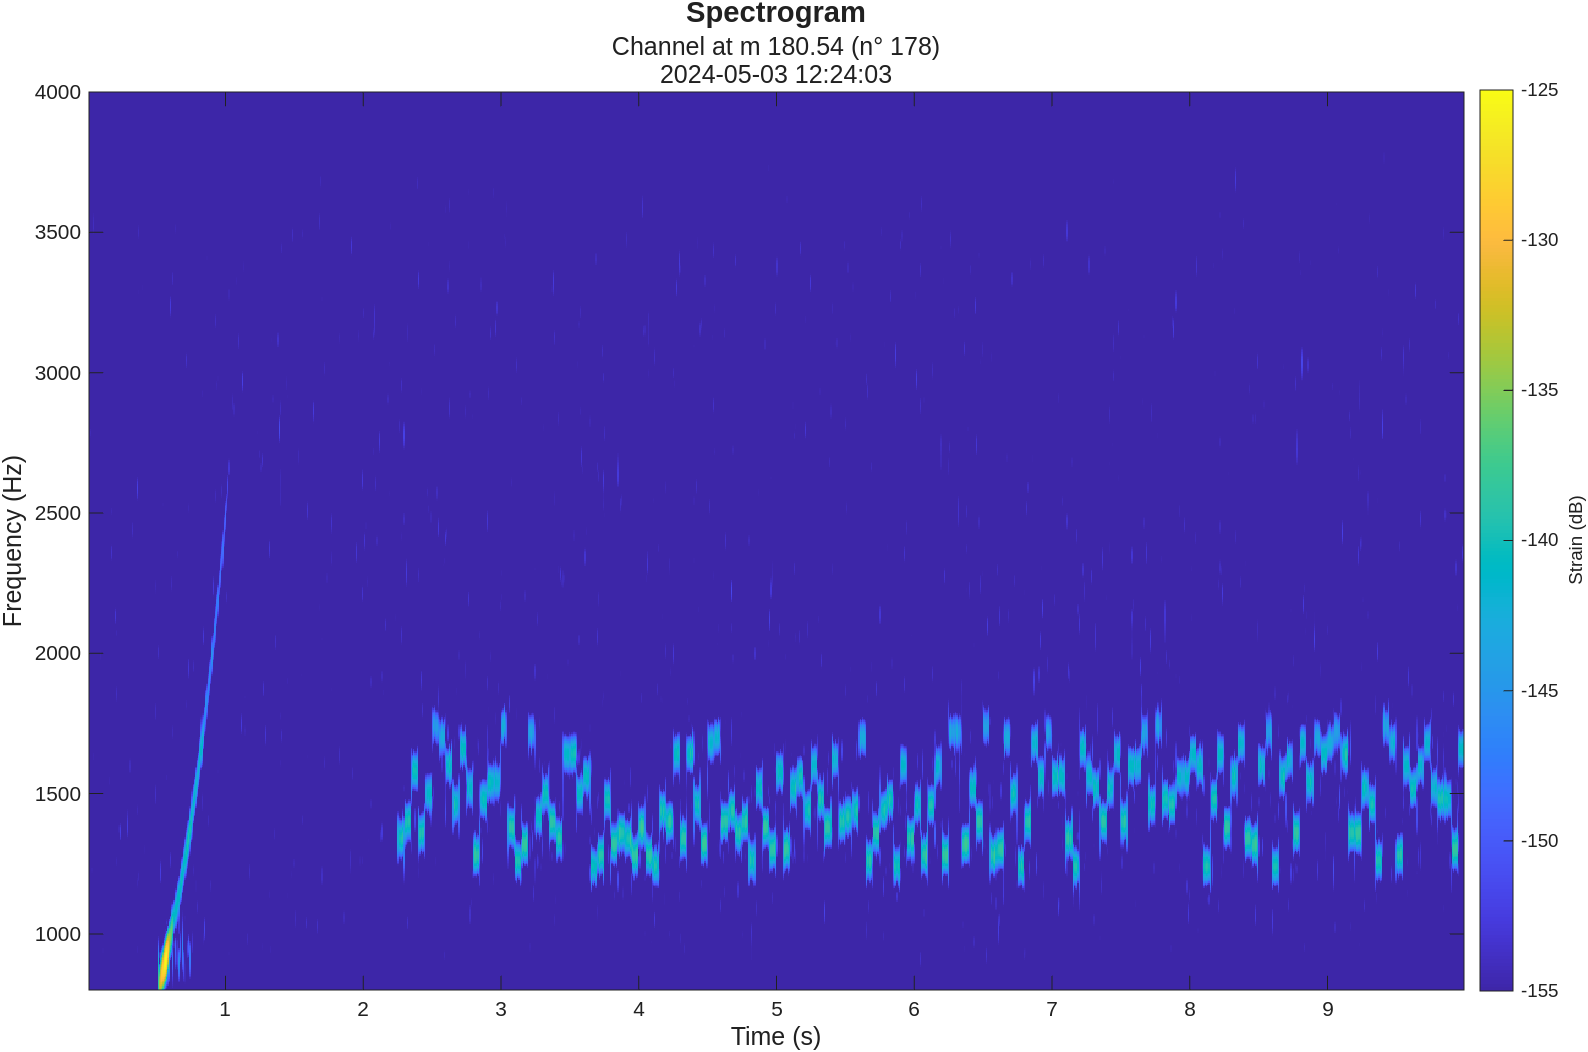
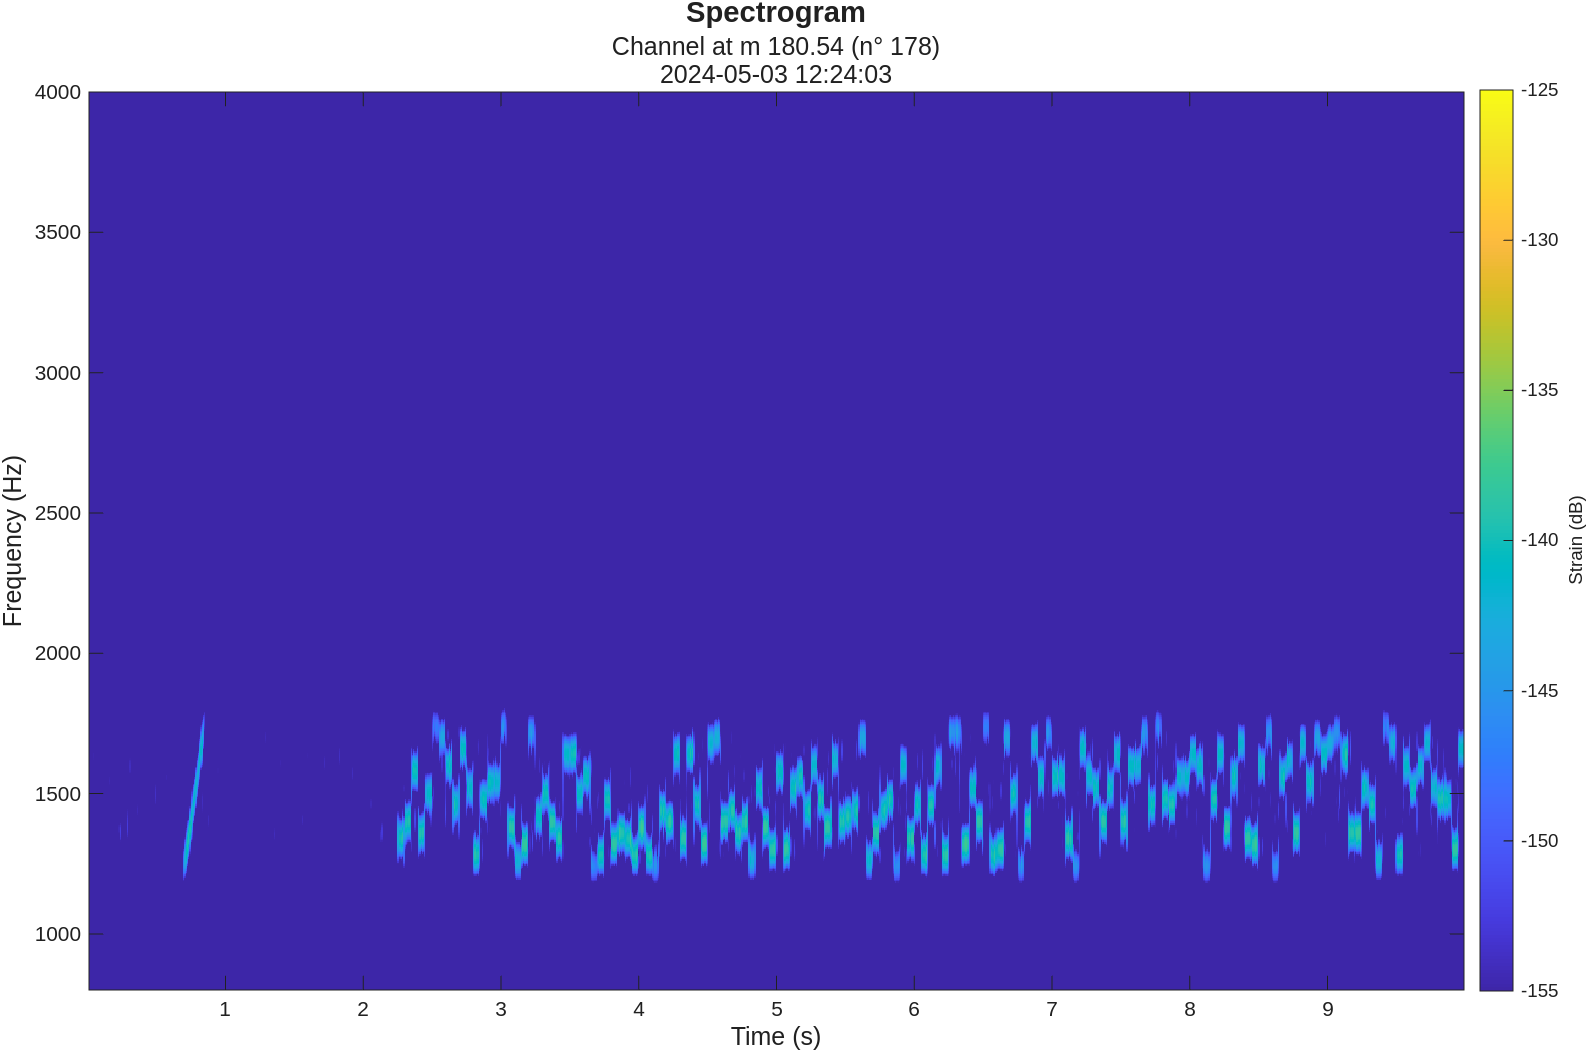
new work on localization for Tronheim experiments

diff --git a/Plots/ellyandcable.m b/Plots/ellyandcable.m
@@ -22,6 +22,7 @@ function EllyCable = ellyandcable()
 	EllyCable.get_channel_pos		= @get_channel_pos;
 	EllyCable.plot_channel_pos		= @plot_channel_pos;
 	EllyCable.plot_source_channel	= @plot_source_channel;
+    EllyCable.plot_source_2channels = @plot_source_2channels;
 end
 
 %% CABLE GEOMETRY
@@ -475,7 +476,7 @@ function plot_source_channel(time_and_date, channel_idx)
 	title('Cable geometry with Source and Channel position', 'FontSize', 12);
 	hold on;
 	
-	% plot source position
+	% plot source and channel position
 	plot3(source.xE, source.yN, source.zU, 'go', 'MarkerFaceColor', 'g', 'MarkerSize', 6);
 	plot3(channel.xE, channel.yN, channel.zU, 'ro', 'MarkerFaceColor', 'r', 'MarkerSize', 6);
 	subtitle([time_and_date, sprintf(' | Channel: %d', channel_idx)]);
@@ -496,6 +497,56 @@ function plot_source_channel(time_and_date, channel_idx)
 	% textbox with distance info
 	lgd_pos = lgd.Position;  % [x, y, width, height] in normalized units
 	info_text = sprintf('Distance\n(source-channel):\n%.2f', distance);
+	annotation('textbox', ...
+		[lgd_pos(1), lgd_pos(2) - 0.15, lgd_pos(3), 0.12], ... 
+    	'String', info_text, ...
+    	'FitBoxToText', 'on', ...
+    	'BackgroundColor', 'white', ...
+    	'EdgeColor', 'black', ...
+    	'LineWidth', 0.5, ...
+    	'FontSize', 10);
+end
+%========================================================================%
+
+%% PLOT SOURCE POSITION AT GIVEN TIME AND CHANNEL ON FO CABLE
+function plot_source_2channels(time_and_date, channel_idx1, channel_idx2)
+% PLOT_SOURCE_CHANNEL Plot channel and Elly position at given time.
+
+	% get cable geometry
+	cable = cable_geometry();
+
+	% get source position from timestamp
+	source = get_source_pos(time_and_date);
+
+	% get channel 1 position on FO cable
+	channel1 = get_channel_pos(channel_idx1);
+
+    % get channel 2 position on FO cable
+	channel2 = get_channel_pos(channel_idx2);
+	
+	% plot cable geometry
+	figure(Name="Cable_Source_Channels", NumberTitle="off");
+	plot3(cable.xE, cable.yN, cable.zU, 'b.-', 'LineWidth', 1.5); 
+	grid on; axis equal; view(3);
+	xlabel('East (m)'); ylabel('North (m)'); zlabel('Altitude (m)');
+	title('Cable geometry with Source and Channels positions', 'FontSize', 12);
+	hold on;
+	
+	% plot source and channels position
+	plot3(source.xE, source.yN, source.zU, 'go', 'MarkerFaceColor', 'g', 'MarkerSize', 6);
+	plot3(channel1.xE, channel1.yN, channel1.zU, 'ro', 'MarkerFaceColor', 'r', 'MarkerSize', 6);
+    plot3(channel2.xE, channel2.yN, channel2.zU, 'mo', 'MarkerFaceColor', 'm', 'MarkerSize', 6);
+	subtitle([time_and_date, sprintf(' | Channel: %d', channel_idx1)]);
+	lgd = legend('Cable', 'Source', 'CPA', 'Reference channel');
+	xlim([-50 450]); ylim([-200 100]); zlim([-150 0]);
+	hold off
+
+	% compute distance between elly and channel 1
+	distance = get_distance(channel_idx1, time_and_date);
+
+	% textbox with distance info
+	lgd_pos = lgd.Position;  % [x, y, width, height] in normalized units
+	info_text = sprintf('Distance\n(source-CPA):\n%.2f', distance);
 	annotation('textbox', ...
 		[lgd_pos(1), lgd_pos(2) - 0.15, lgd_pos(3), 0.12], ... 
     	'String', info_text, ...

diff --git a/DAS_for_ocean_application.m b/DAS_for_ocean_application.m
@@ -69,8 +69,6 @@ clear medFilt
 % parameters
 fkFilt = DAS.fkFilt();
 
-% fkFilt_c_range = [1400 1450 2000 2050];
-
 % design fk filter
 fk_filter =	fk_filter_design( ...
 	data.dimensions, ...
@@ -347,3 +345,55 @@ plot(x_axis(idx_offset_neg), cable_depth(idx_offset_neg), 'b.', 'MarkerSize', 20
 plot(x_axis(idx_CPA), cable_depth(idx_CPA), 'y.', 'MarkerSize', 20);
 
 legend('cable', 'reference channel', 'positive offset', 'negative offset', 'CPA');
+
+%% Extract signal
+x1 = 3.6072e+04;
+x2 = 50000;
+
+[~, xidx1] = min(abs(data.distance_m - x1));
+[~, xidx2] = min(abs(data.distance_m - x2));
+
+v1t1 = 45;
+v1t2 = 54;
+
+v2t1 = 54;
+v2t2 = 61;
+
+v3t1 = 61;
+v3t2 = 70;
+
+v4t1 = 120;
+v4t2 = 131;
+
+[~, v1tidx1] = min(abs(data.time - v1t1));
+[~, v1tidx2] = min(abs(data.time - v1t2));
+
+[~, v2tidx1] = min(abs(data.time - v2t1));
+[~, v2tidx2] = min(abs(data.time - v2t2));
+
+[~, v3tidx1] = min(abs(data.time - v3t1));
+[~, v3tidx2] = min(abs(data.time - v3t2));
+
+[~, v4tidx1] = min(abs(data.time - v4t1));
+[~, v4tidx2] = min(abs(data.time - v4t2));
+
+V1_30_65_fk_1400_3500 = strain_filtered(xidx1:xidx2, v1tidx1:v1tidx2);
+V2_30_65_fk_1400_3500 = strain_filtered(xidx1:xidx2, v2tidx1:v2tidx2);
+V3_30_65_fk_1400_3500 = strain_filtered(xidx1:xidx2, v3tidx1:v3tidx2);
+V4_30_65_fk_1400_3500 = strain_filtered(xidx1:xidx2, v4tidx1:v4tidx2);
+
+figure;
+imagesc(data.time(v1tidx1:v1tidx2), data.distance_m(xidx1:xidx2), 20*log10(abs(V1_30_65_fk_1400_3500)));
+clim([-200 -170])
+
+figure;
+imagesc(data.time(v2tidx1:v2tidx2), data.distance_m(xidx1:xidx2), 20*log10(abs(V2_30_65_fk_1400_3500)));
+clim([-200 -170])
+
+figure;
+imagesc(data.time(v3tidx1:v3tidx2), data.distance_m(xidx1:xidx2), 20*log10(abs(V3_30_65_fk_1400_3500)));
+clim([-200 -170])
+
+figure;
+imagesc(data.time(v4tidx1:v4tidx2), data.distance_m(xidx1:xidx2), 20*log10(abs(V4_30_65_fk_1400_3500)));
+clim([-200 -170])

diff --git a/DAS_Trondheim.m b/DAS_Trondheim.m
@@ -15,7 +15,7 @@ addpath('Dataset', 'Dataset_Norway', 'Filters', 'Plots', 'SetupAndConfiguration'
 
 dataset_name	= 'Norway';
 DAS				= feval(str2func(dataset_name + "_cfg"));
-	EllyCable	= ellyandcable();
+EllyCable	    = ellyandcable();
 data			= DAS.load_data("122403.hdf5");
 % -----------------------------------------------------------------------%
 
@@ -44,7 +44,7 @@ clear channel_no
 % -----------------------------------------------------------------------%
 
 %% ELLY AND CABLE: SOURCE AND CHANNEL POSITION
-channel_no = 210;
+channel_no = 228;
 EllyCable.plot_source_channel(data.time_and_date, channel_no);
 
 % clear variables
@@ -262,9 +262,6 @@ clear fx space_frequency_plot
 %% CROSS-CORRELATION STATISTICS
 % parameters
 xcorr = DAS.correlation();
-% to use strain with matched filtering (Trondheim dataset):
-% strain_filt_no_match = strain_filtered;
-% strain_filtered = strain_matched_filtered;
 
 % plot correlogram
 correlogram = get_correlogram( ...
@@ -276,7 +273,8 @@ correlogram = get_correlogram( ...
 	xcorr.time_lag, ...
 	xcorr.time_interval, ...
 	'subtitle', data.time_and_date, ...
-	'use_hilbert',false);
+	'use_hilbert',false, ...
+    'resample_factor', 10);
 
 % export plot as png
 exportgraphics( ...
@@ -296,7 +294,8 @@ exportgraphics( ...
 	xcorr.filename_table, ...
 	'subtitle', data.time_and_date, ...
 	'offset_step', 1, ...
-	'use_hilbert', false);
+	'use_hilbert', false, ...
+    'resample_factor', 10);
 
 % export plot as png
 exportgraphics( ...

diff --git a/SetupAndConfiguration/Norway_cfg.m b/SetupAndConfiguration/Norway_cfg.m
@@ -88,7 +88,8 @@ function bp = bandpass()
 %
 %   Output:
 %       bp - Struct containing cutoff frequencies and filter order.
-    bp.cutoff_freq		= [800 4000]; % [Hz]
+    %bp.cutoff_freq		= [800 4000]; % [Hz]
+    bp.cutoff_freq		= [1240 1760]; % [Hz]
     bp.order			= 6;
 end
 % -----------------------------------------------------------------------%
@@ -188,11 +189,12 @@ function xcorr = correlation()
 %   Output:
 %       xcorr - Channel offsets, time lags, and statistics export settings.
 
-    xcorr.channel_position_m	= (180 -1) * 1.02; %[m]
-    xcorr.offset_m				= 3; %[m]
+    xcorr.channel_position_m	= (235 - 1) * 1.02; %[m]
+    xcorr.offset_m				= 6.5; %[m]
     xcorr.time_lag				= 0.005; %[s]
     xcorr.time_interval			= [3.6 4.2]; %[s]
-    xcorr.cpa_m					= (207 -1) * 1.02; %[m]
+    xcorr.cpa_m					= (207 - 1) * 1.02; %[m]
     xcorr.filename_table		= fullfile('Norway/', 'cross_corr_stats_Norway.csv');
 end
 % -----------------------------------------------------------------------%
+% 228, 232, 235

diff --git a/SetupAndConfiguration/DAS4Whale_cfg.m b/SetupAndConfiguration/DAS4Whale_cfg.m
@@ -82,7 +82,7 @@ function bp = bandpass()
 %   Output:
 %       bp - Struct containing cutoff frequencies and filter order.
 
-    bp.cutoff_freq   = [5 75]; % [Hz]
+    bp.cutoff_freq   = [30 65]; % [Hz]
     bp.order         = 5;
 end
 % -----------------------------------------------------------------------%
@@ -105,7 +105,7 @@ function fkFilt = fkFilt()
 %   Output:
 %       fkFilt - Struct containing velocity range limits for f-k filtering.
 
-    fkFilt.c_range = [1400 1450 2000 2050]; %[m/s]
+    fkFilt.c_range = [1400 1450 3500 3550]; %[m/s]
 end
 
 % -----------------------------------------------------------------------%
